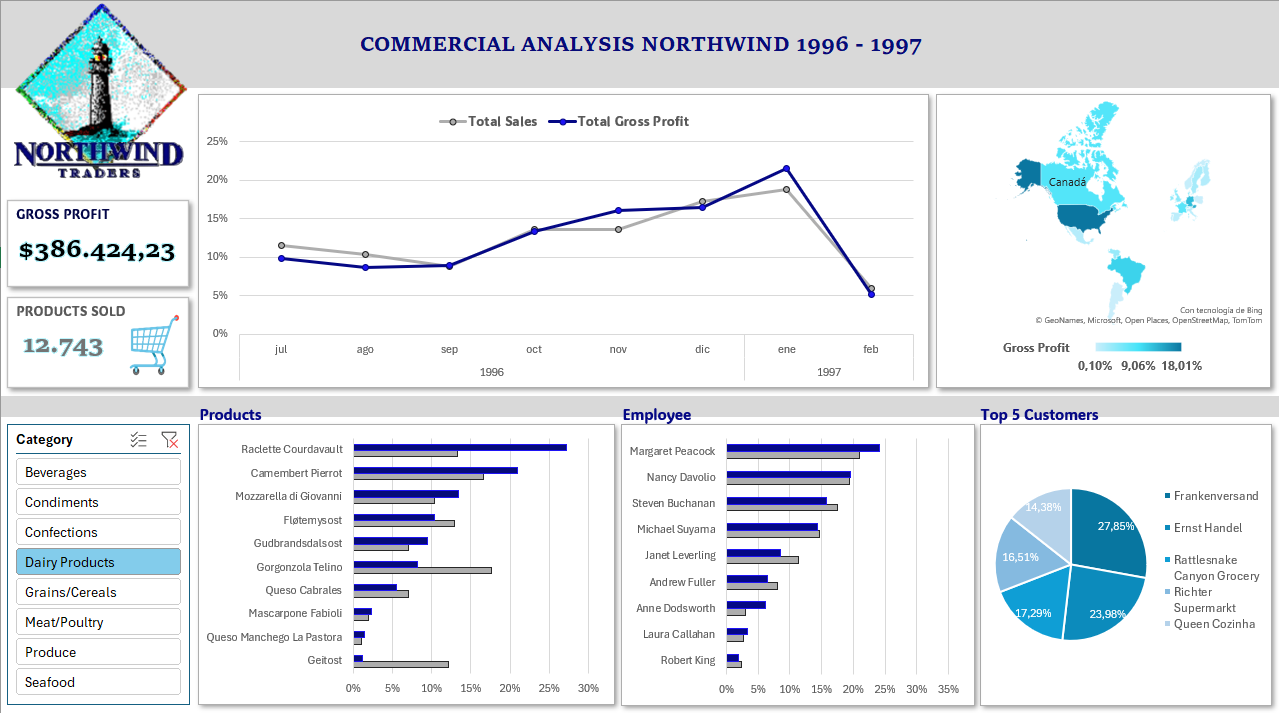
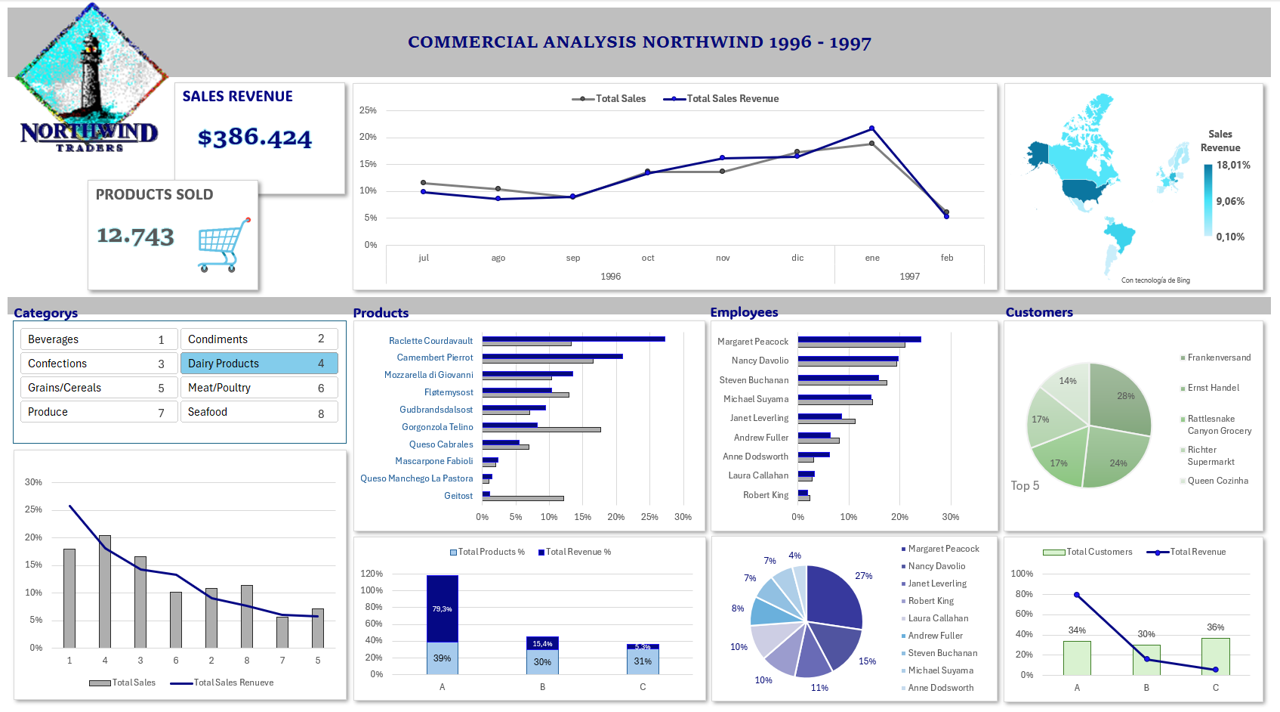
docs[README]:Writing Interpretation of data

diff --git a/README.md b/README.md
@@ -51,14 +51,13 @@ El proceso de reconocimiento y comprensión de la esctructura interna de una bas
 
 ## :interrobang: Objetivos de análisis
 
-El análisis exploratorio se realizó teniendo en cuenta los siguientes objetivos obtenidos a partir de las preguntas de investigación:
+El análisis exploratorio se realizó teniendo en cuenta los siguientes objetivos obtenidos a partir de las preguntas de investigación, con el fin de descubrir patrones, tendencias o áreas de oportunidad:
 
-1. Analizar la tendencia de ventas y utilidad bruta a lo largo del tiempo.
-2. Segmentar las ventas y/o utilidad por región.
+1. Analizar la tendencia de ventas e ingresos a lo largo del tiempo.
+2. Segmentar las ventas y/o ingresos por región.
 3. Identificar el/los productos estrella(s) de cada categoría.
 4. Cuantificar el desempeño en ventas por empleado.
 5. Clasificar los mejores clientes
-6. Descubrir patrones, tendencias o áreas de oportunidad.
 
 ## :bookmark_tabs: Consultas SQLite
 
@@ -140,14 +139,71 @@ ORDER BY CategoryID, Ranking
 
 ## :bar_chart: Visualización de resultados
 
-Ofreciendo una visión general de los datos más relevantes obtenidos através de las consultas, se desarrolló mediante la herramienta Excel el siguiente Dashboard ([Video](https://vimeo.com/1018096795)) que permite visualizar de forma dinámica los resultados, cumpliendo con los objetivos de análisis propuestos. 
+Ofreciendo una visión general de los datos más relevantes obtenidos através de las consultas, se desarrolló mediante la herramienta Excel el siguiente Dashboard ([Video](https://vimeo.com/1018783584)) que permite visualizar de forma dinámica los resultados, cumpliendo con los objetivos de análisis propuestos. 
 
 ![Dashboard](https://github.com/Johanna-Rojas/BD_NORTHWIND/blob/main/Dashboard_Analisis_Northwind.png)
 
 
 ## :chart_with_upwards_trend: Interpretación de los datos
 
+El Dashboard proporciona una visión general de los datos de ventas y utilidades obtenidos por Northwind Traders durante los años 1996 y 1997. De donde se pueden inferir lo siguiente:
 
+**1.** Tendencia en ventas e ingresos:
+
+       - Se observa una tendencia creciente en las ventas totales a lo largo del período, con un crecimiento del 7.37%.
+	   - El descenso significativo en el mes de febrero de 1997, puede ser debido a que no se reportó toda la data de ese mes.
+       - Se evidencian algunas flutuaciones estacionales, con picos y valles en ciertos meses del año, posiblemente factores como las festividades, estaciones climaticas o campañas de marketing pueden estar influyendo.
+       - Los ingresos siguen una tendencia similar a las ventas, de Julio a Enero se experimento un aumento del 11.8%.
+
+**2.** Distribución geográfica:
+
+       - La mayor parte de los ingresos por ventas se concentran en USA (aprox. 18%), seguido por Austria y Alemania, lo que nos indica la alta presencia en estos mercados y el potencial de crecimiento en otras regiones como Brasil que cuenta con el 10.41% del mercado, Canada y Francia.
+
+**3.** Comportamiento por categoría y producto:
+
+       - Se indica una fuerte demanda de los productos de las categorías "Beverages" (17.96%), "Dairy Products" (20.41%), "Confections" (16.56%), respectivamente el aporte en ingresos es del 25.74%, 18.09%, 14.21%. 
+	   - De esas tres categorías, productos específicos como el "Cote de Blaye", "Raclette Courdavault", "Camembert Pierrot", "Tarte au sucre", son los que más destacan por el ingreso generado, con porcentajes mayores al 20% en cada una de sus categorías respectivas.
+	   - Pero definitivamente el producto estrella es "Cote de Blaye" que genera el mayor porcentaje de ingresos (16.30%) de los 77 productos ofrecidos.
+	   - Se debe fijar la atención en productos que tienen un porcentaje de ventas muy por encima de los ingresos generados, ya que esto esta provocando un esfuerzo en ventas con una retribucción baja.
+       - Cabe mencionar que las categorías Produce, Grains/Cereals que manejan doce de los productos, han tenido un muy bajo rendimiento, estan aportando aproximadamente solo el 6% de los ingresos y ventas, podrían requerir ajustes, campañas promocionales, etc.
+	   - El análisis ABC revela que que 61% de los productos le estan generando a la empresa solo un 20% de ingresos y que el mayor beneficio (80%) lo aportan las ventas solo del 39% de los productos (30/77), lo que sugiere una oportunidad para optimizar el inventario y enfocarse en los productos más rentables.
+
+**4.** Desempeño de empleados:
+
+	   - "Margaret Peacock" es quien lleva la batuta en ventas, contribuyendo en un 27% a los ingresos totales.
+	   - Se debe evaluar afondo el desempeño de "Andrew Fuller", "Steven Buchanan", "Michael Suyama" y "Anne Dodsworth" que muestran porcentajes de ventas y aportes en ingresos muy por debajo del 10%.
+
+	   Evaluando las tres categorías más rentables: 
+
+	   - "Margaret Peacock" es quien sobresale por la cantidad de productos vendidos en las 3 categorías (del 20% al 30%), con un porcentaje muy similar al de los ingresos recibidos.
+	   - En la categoría "Beverages" se distingue "Robert King" por la cantidad de ingresos que logro generar a la empresa (aproximadamente un 29% de la categoría) respecto a las pocos productos vendidos (aprox. 11%). En las otras categorías muestra un bajo desempeño.
+	   - En las categorías "Dairy Products" y "Confections" resalta "Nancy Davolio" por su aporte en ventas e ingresos por encima del 15%.
+	   
+**5.** Clientes Clave:
+
+	   - Un pequeño número de clientes, 25 de 74 (34%), generan una proporción significativa de las ventas e ingresos totales (aprox. 80%), esto sugiere una dependencia con muy pocos clientes clave.
+	   - En general, los clientes que le suponen a la empresa un mayor beneficio son: "Ernst Handel", "Mère Paillarde" y "Save-a-lot Markets".
+	   - Y quienes estan apartando menos a los ingresos son: "Franchi S.p.A", "Ana Trujillo Emparedados y helados" y "Centro comercial Moctezuma".
+
+	   Evaluando las tres categorías más rentables:
+
+       - En la categoría "Beverages" sobresalen con un aporte mayor al 20% del total de la categoría, "Mère Paillarde", "Simons bistro" y "Piccolo und mehr".
+	   - Respecto a la categoría "Dairy Products" destacan clientes como "Frankenversand" y "Ernst Handel" con un aporte del 28% y 24% respectivamente.
+	   - Y en la categoría "Confections" resalta "Rattlesnake Canyon Grocery" con un aporte casi del 30% de los ingresos persividos en esa categoría.
+
+## :thought_balloon: Concluciones y recomendaciones
+
+	- Fortalecer las categorías de mayor venta: Dado que "Beverages", "Dairy Products" y "Confections" son las categorías más populares, la empresa podría considerar expandir su oferta de productos en estas líneas o lanzar promociones especiales.
+
+	- Analizar la estacionalidad: Identificar los factores que influyen en las fluctuaciones estacionales y desarrollar estrategias para aprovechar las temporadas altas y mitigar los efectos de las temporadas bajas.
+
+	- Optimizar la fuerza de ventas: Utilizar los datos de ventas por empleado para identificar áreas de mejora y proporcionar capacitación adicional a los empleados que lo necesiten.
+
+	- Fomentar la lealtad de los clientes clave: Implementar programas de fidelización para retener a los clientes más importantes y estimular compras repetidas.
+
+	- Expansión geográfica: Considerar la posibilidad de expandir las operaciones a nuevas regiones para diversificar los ingresos y reducir la dependencia de un solo mercado.
+
+	- Análisis de la competencia: Realizar un análisis comparativo con los competidores para identificar oportunidades y amenazas en el mercado.
 
 ## :pencil: Contribuciones
 
